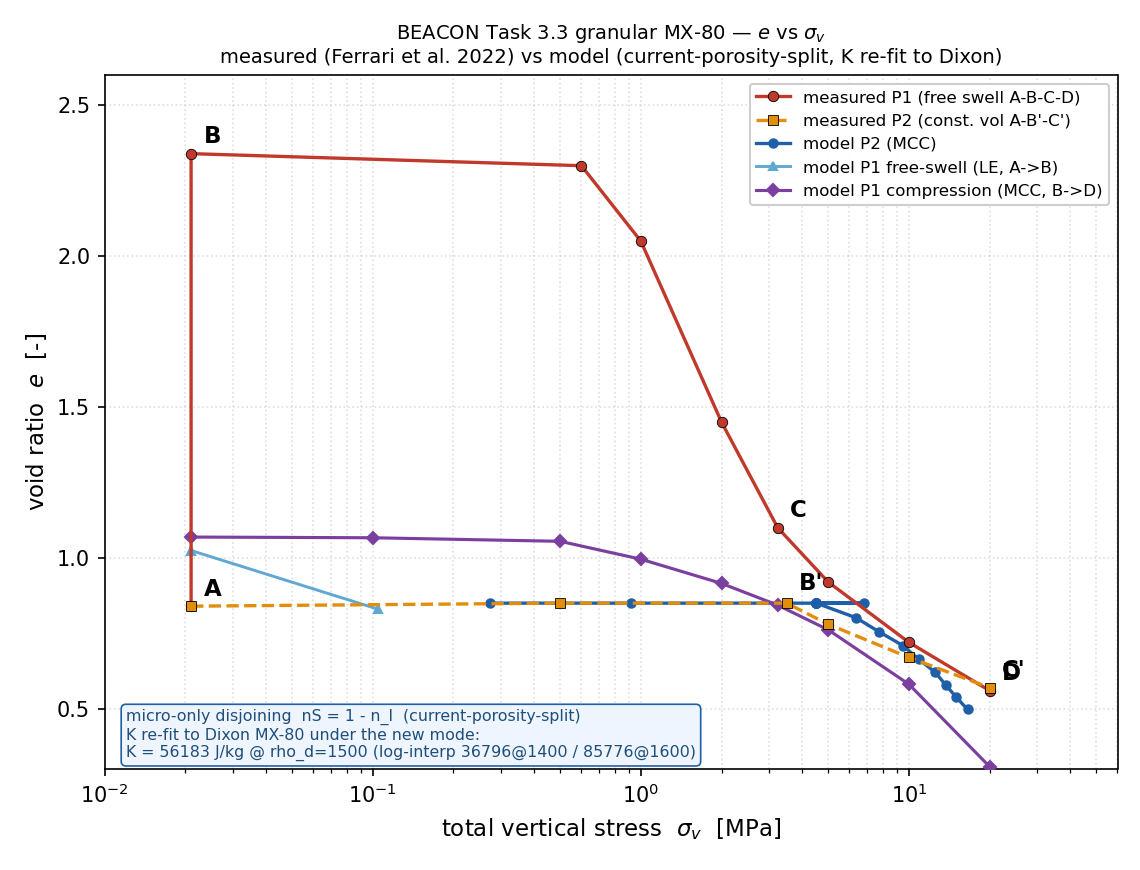
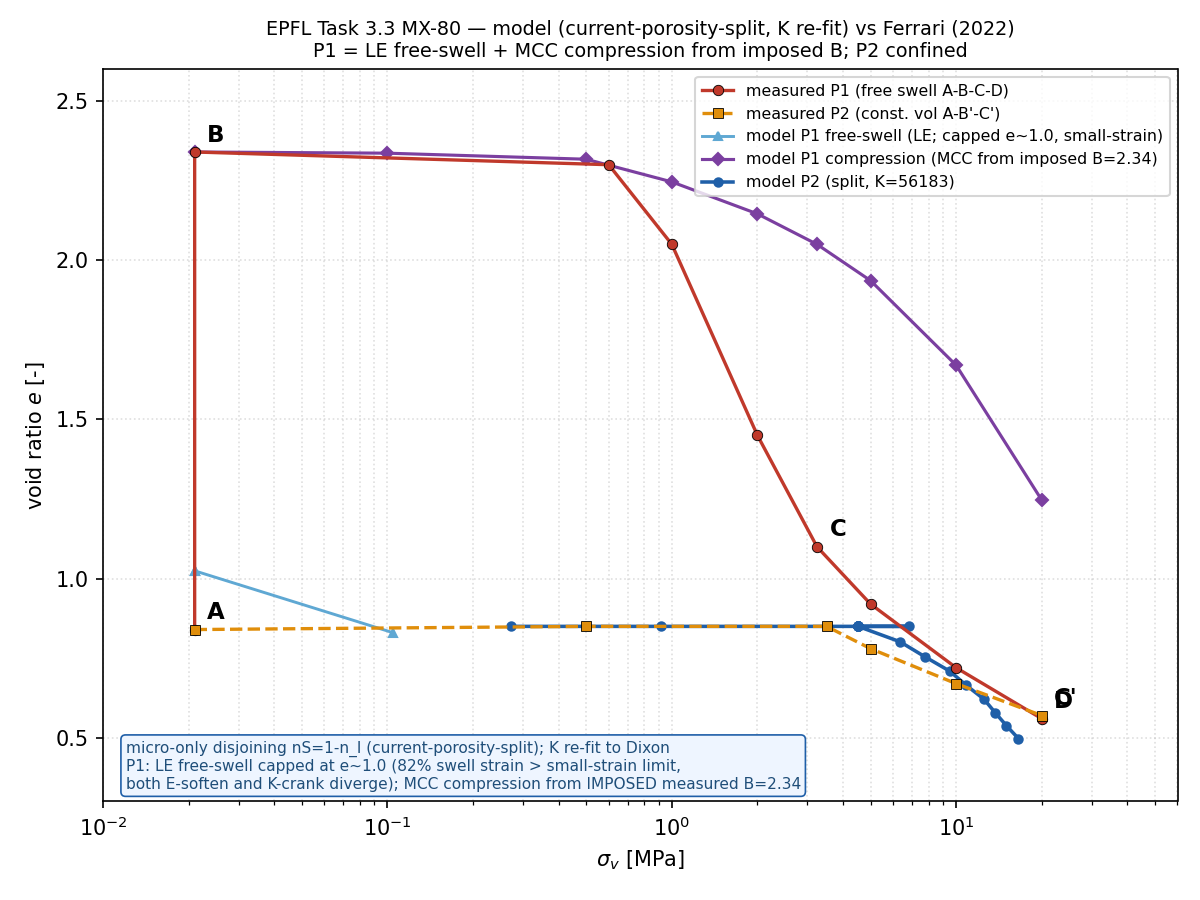
EPFL P1: LE free-swell (capped, small-strain) + MCC compression from imposed B=2.34

diff --git a/beacon_wp3_epfl_stresspath_2026-06-02/figures/plot_epfl_cps.py b/beacon_wp3_epfl_stresspath_2026-06-02/figures/plot_epfl_cps.py
@@ -1,61 +1,44 @@
 #!/usr/bin/env python3
-"""EPFL BEACON Task 3.3 — e vs sigma_v, model (current_porosity_split, K re-fit to
-Dixon MX-80) vs measured (Ferrari et al., Acta Geotechnica 2022, Fig 9 / D3.3 Tab 4-1).
-Model from VTU: e = phi/(1-phi), sigma_ax = -sigma_yy/1e6 (compression-positive).
-Mode: micro_solid_volume_fraction_mode=current_porosity_split (nS=1-n_l, micro-only).
-K = 56183 J/kg @ rho_d=1500 (log-interp of recalibrated 36796@1400 / 85776@1600)."""
+"""EPFL Task 3.3 e-sigma_v: model (current_porosity_split, K re-fit to Dixon) vs
+measured (Ferrari et al. 2022). P1: LE free-swell (capped by small-strain at e~1.0,
+cannot reach measured B=2.34) + MCC compression run from the IMPOSED measured B=2.34.
+P2 (confined): split, K=56183. e=phi/(1-phi), sigma_ax=-sigma_yy/1e6."""
 import glob, os, re
 import numpy as np, meshio
-import matplotlib; matplotlib.use("Agg")
-import matplotlib.pyplot as plt
-
+import matplotlib; matplotlib.use("Agg"); import matplotlib.pyplot as plt
 ROOT = os.path.dirname(os.path.dirname(os.path.abspath(__file__)))
 def traj(od, smin=1e-3):
-    fs = sorted(glob.glob(os.path.join(ROOT, "results", od, "*.vtu")),
-                key=lambda f: float(re.search(r"_t_([0-9.]+)\.vtu", f).group(1)) if re.search(r"_t_([0-9.]+)\.vtu", f) else -1)
-    S, E = [], []
+    fs=sorted(glob.glob(os.path.join(ROOT,"results",od,"*.vtu")),
+              key=lambda f:(float(re.search(r"_t_([0-9.]+)\.vtu",f).group(1)) if re.search(r"_t_([0-9.]+)\.vtu",f) else -1))
+    S,E=[],[]
     for f in fs:
-        m = meshio.read(f)
-        phi = float(np.asarray(m.point_data["porosity"]).mean())
-        sax = -np.asarray(m.point_data["sigma"]).mean(axis=0)[1] / 1e6
-        if sax > smin:
-            S.append(sax); E.append(phi / (1 - phi))
-    return np.array(S), np.array(E)
-
-S_p2, E_p2 = traj("run_beacon_t33_path2_P2-1_dsm_mcc")
-S_le, E_le = traj("run_p1_LE", smin=-1); ipk = int(np.argmax(E_le))
-S_p1sw, E_p1sw = S_le[:ipk+1], E_le[:ipk+1]
-S_p1c, E_p1c = traj("run_p1_MCCrestart", smin=-1)
-
-mP1_s = [0.021, 0.021, 0.6, 1.0, 2.0, 3.24, 5.0, 10.0, 20.0]
-mP1_e = [0.84,  2.34,  2.30, 2.05, 1.45, 1.10, 0.92, 0.72, 0.56]
-mP2_s = [0.021, 0.5, 3.5, 5.0, 10.0, 20.0]
-mP2_e = [0.84,  0.85, 0.85, 0.78, 0.67, 0.57]
-
-fig, ax = plt.subplots(figsize=(7.6, 5.8))
-ax.plot(mP1_s, mP1_e, "-o", color="#c0392b", lw=1.6, ms=5, mec="k", mew=0.4, zorder=5, label="measured P1 (free swell A-B-C-D)")
-ax.plot(mP2_s, mP2_e, "--s", color="#e08e0b", lw=1.6, ms=5, mec="k", mew=0.4, zorder=5, label="measured P2 (const. vol A-B'-C')")
-ax.plot(S_p2, E_p2, "-o", color="#1f5fa8", ms=4, lw=1.6, zorder=3, label="model P2 (MCC)")
-ax.plot(S_p1sw, E_p1sw, "-^", color="#5fa8d3", ms=4, lw=1.4, zorder=3, label="model P1 free-swell (LE, A->B)")
-ax.plot(S_p1c, E_p1c, "-D", color="#7b3fa0", ms=4, lw=1.5, zorder=3, label="model P1 compression (MCC, B->D)")
-for n,(s,e) in {"A":(0.021,0.84),"B":(0.021,2.34),"B'":(3.5,0.86),"C":(3.24,1.10),"C'":(20.0,0.57),"D":(20.0,0.56)}.items():
+        m=meshio.read(f); phi=float(np.asarray(m.point_data["porosity"]).mean())
+        sax=-np.asarray(m.point_data["sigma"]).mean(axis=0)[1]/1e6
+        if sax>smin: S.append(sax); E.append(phi/(1-phi))
+    return np.array(S),np.array(E)
+S_p2,E_p2=traj("run_beacon_t33_path2_P2-1_dsm_mcc")
+S_le,E_le=traj("run_p1_LE",smin=-1); ipk=int(np.argmax(E_le)); S_sw,E_sw=S_le[:ipk+1],E_le[:ipk+1]
+S_c,E_c=traj("run_p1_MCCrestart",smin=-1)
+mP1_s=[0.021,0.021,0.6,1.0,2.0,3.24,5.0,10.0,20.0]; mP1_e=[0.84,2.34,2.30,2.05,1.45,1.10,0.92,0.72,0.56]
+mP2_s=[0.021,0.5,3.5,5.0,10.0,20.0]; mP2_e=[0.84,0.85,0.85,0.78,0.67,0.57]
+fig,ax=plt.subplots(figsize=(8,6))
+ax.plot(mP1_s,mP1_e,"-o",color="#c0392b",lw=1.6,ms=5,mec="k",mew=0.4,zorder=5,label="measured P1 (free swell A-B-C-D)")
+ax.plot(mP2_s,mP2_e,"--s",color="#e08e0b",lw=1.6,ms=5,mec="k",mew=0.4,zorder=5,label="measured P2 (const. vol A-B'-C')")
+ax.plot(S_sw,E_sw,"-^",color="#5fa8d3",ms=4,lw=1.4,zorder=3,label="model P1 free-swell (LE; capped e~1.0, small-strain)")
+ax.plot(S_c,E_c,"-D",color="#7b3fa0",ms=4,lw=1.5,zorder=3,label="model P1 compression (MCC from imposed B=2.34)")
+ax.plot(S_p2,E_p2,"-o",color="#1f5fa8",ms=4,lw=1.7,zorder=4,label="model P2 (split, K=56183)")
+for n,(s,e) in {"A":(0.021,0.84),"B":(0.021,2.34),"C":(3.24,1.10),"C'":(20.0,0.57),"D":(20.0,0.56)}.items():
     ax.annotate(n,(s,e),textcoords="offset points",xytext=(6,5),fontsize=11,fontweight="bold",zorder=6)
-ax.text(0.012, 0.34,
-        "micro-only disjoining  nS = 1 - n_l  (current-porosity-split)\n"
-        "K re-fit to Dixon MX-80 under the new mode:\n"
-        "K = 56183 J/kg @ rho_d=1500 (log-interp 36796@1400 / 85776@1600)",
-        fontsize=7.6, color="#1f4e79",
-        bbox=dict(boxstyle="round,pad=0.3", fc="#eef5ff", ec="#1f5fa8", lw=0.8))
-ax.set_xscale("log"); ax.set_xlim(0.01, 60); ax.set_ylim(0.3, 2.6)
-ax.set_xlabel("total vertical stress  $\\sigma_v$  [MPa]", fontsize=11)
-ax.set_ylabel("void ratio  $e$  [-]", fontsize=11)
-ax.set_title("BEACON Task 3.3 granular MX-80 — $e$ vs $\\sigma_v$\n"
-             "measured (Ferrari et al. 2022) vs model (current-porosity-split, K re-fit to Dixon)", fontsize=9.4)
-ax.grid(True, which="both", ls=":", alpha=0.4); ax.legend(fontsize=8, loc="upper right", framealpha=0.95)
-fig.tight_layout()
-out = os.path.join(ROOT, "figures", "epfl_cps_both_paths.png")
-fig.savefig(out, dpi=150)
-print("wrote", out)
-print(f"P1 free-swell peak e = {E_le[ipk]:.3f} (meas B 2.34)")
-print(f"P1 MCC compression endpoint e = {E_p1c[-1]:.3f} @ {S_p1c[-1]:.1f} MPa (meas D 0.56)")
-print(f"P2 endpoint e = {E_p2[-1]:.3f} @ {S_p2[-1]:.1f} MPa (meas C' 0.57)")
+ax.text(0.012,0.34,
+        "micro-only disjoining nS=1-n_l (current-porosity-split); K re-fit to Dixon\n"
+        "P1: LE free-swell capped at e~1.0 (82% swell strain > small-strain limit,\n"
+        "both E-soften and K-crank diverge); MCC compression from IMPOSED measured B=2.34",
+        fontsize=7.4,color="#1f4e79",bbox=dict(boxstyle="round,pad=0.3",fc="#eef5ff",ec="#1f5fa8",lw=0.8))
+ax.set_xscale("log"); ax.set_xlim(0.01,60); ax.set_ylim(0.3,2.6)
+ax.set_xlabel("$\\sigma_v$ [MPa]"); ax.set_ylabel("void ratio $e$ [-]")
+ax.set_title("EPFL Task 3.3 MX-80 — model (current-porosity-split, K re-fit) vs Ferrari (2022)\nP1 = LE free-swell + MCC compression from imposed B; P2 confined",fontsize=9.2)
+ax.grid(True,which="both",ls=":",alpha=0.4); ax.legend(fontsize=7.6,loc="upper right")
+fig.tight_layout(); out=os.path.join(ROOT,"figures","epfl_cps_both_paths.png"); fig.savefig(out,dpi=150)
+print("wrote",out)
+print(f"P1 MCC compression from B=2.34: end e={E_c[-1]:.3f} @ {S_c[-1]:.1f} MPa (meas D 0.56)")
+print(f"P2 end e={E_p2[-1]:.3f} @ {S_p2[-1]:.1f} MPa (meas C' 0.57)")